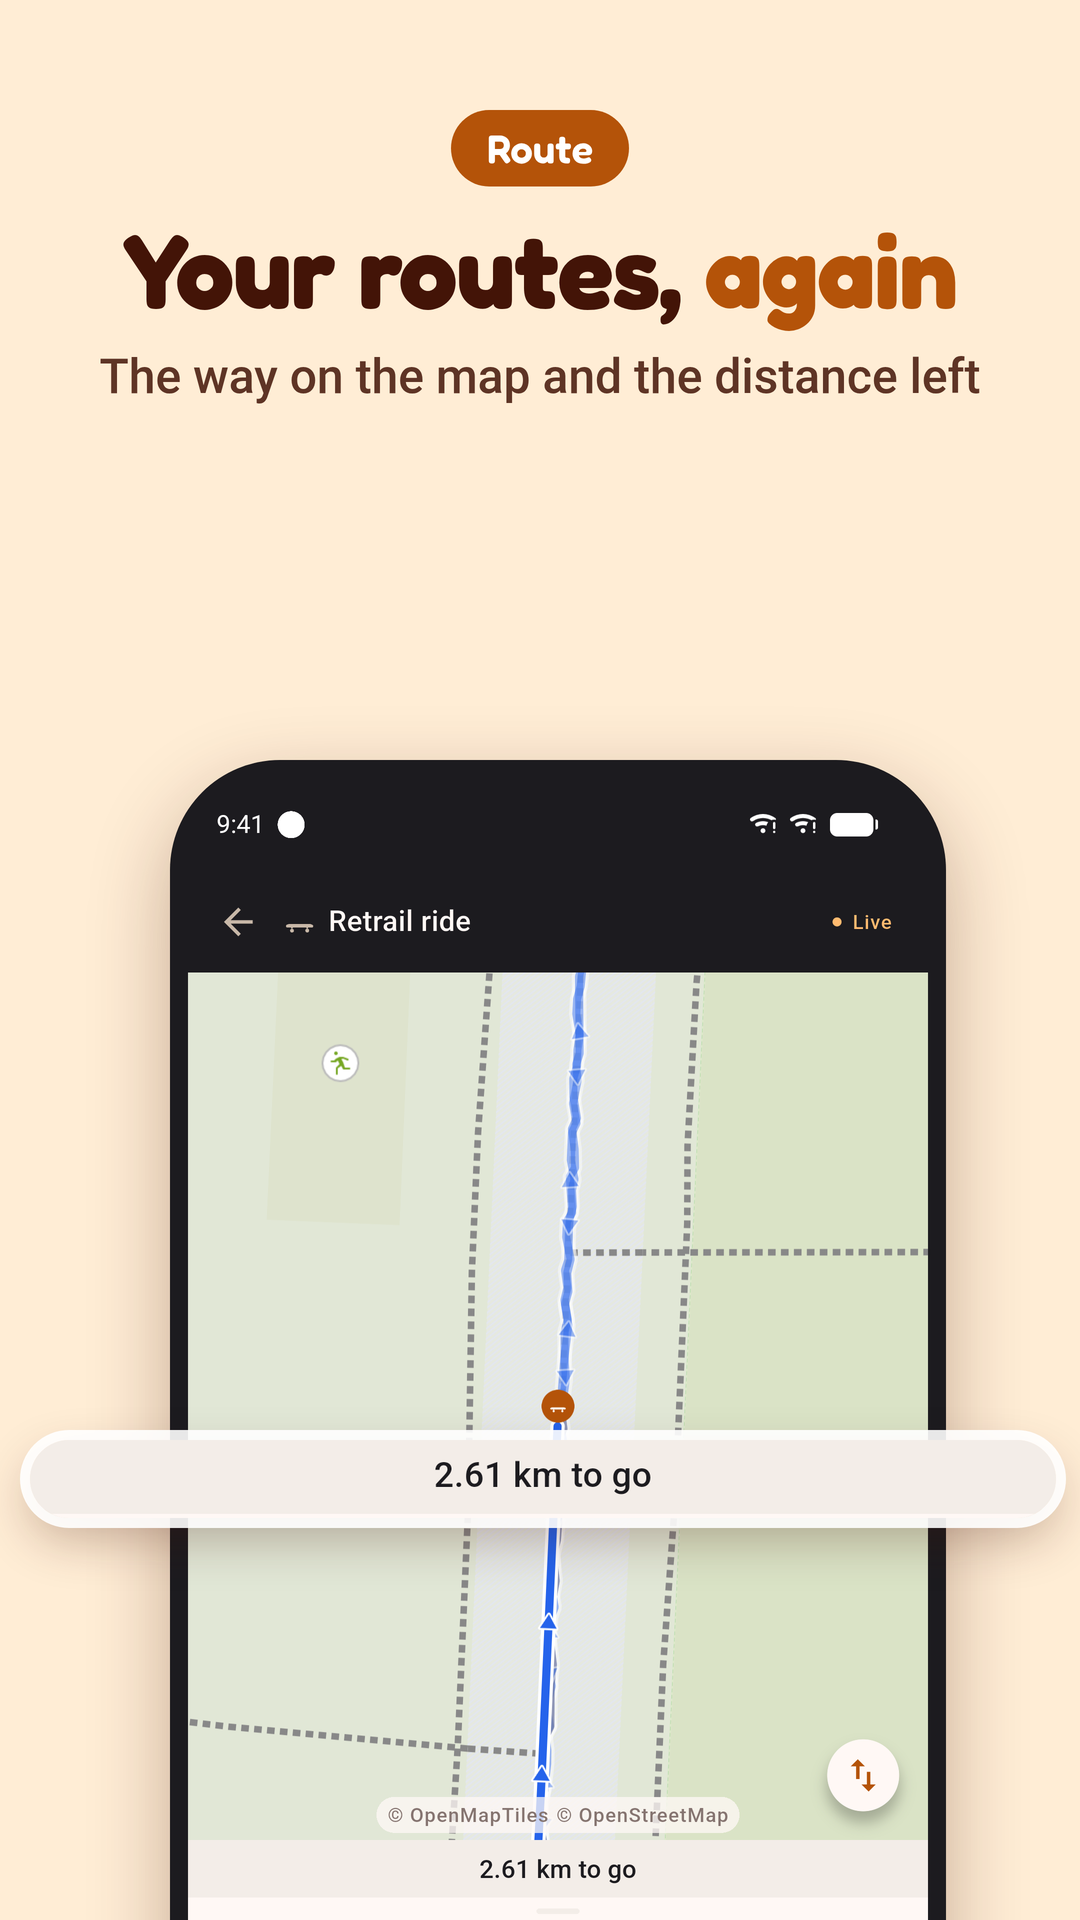
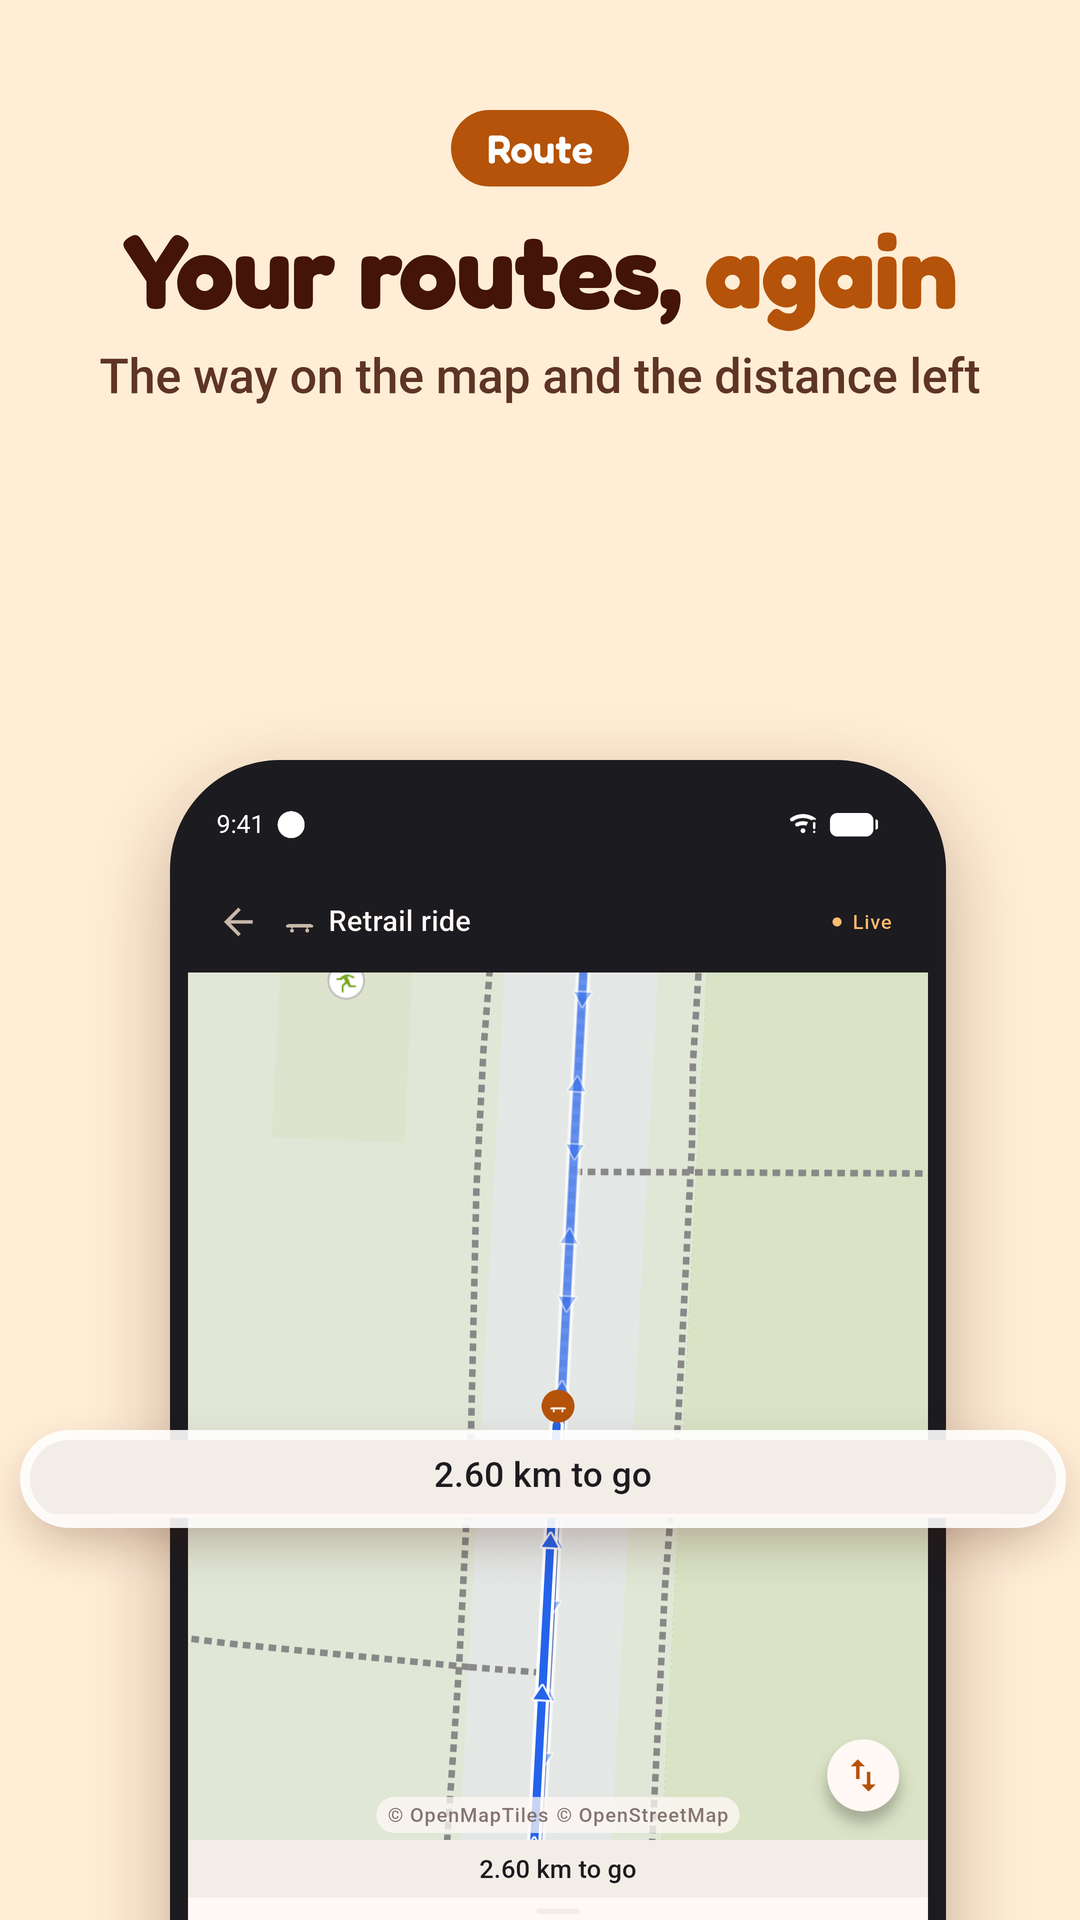
fix(store): retake the follow screenshot without the wobbly route line
The reference line came from the old demo database with 1 m GPS scatter.
Rebuilt with 0.15 m scatter and retaken in German and English; the other
Play screenshots are unchanged.

diff --git a/.trail/learnings/2026-11-06-auf-den-play-bildern-zittert-nur-valiju.md b/.trail/learnings/2026-11-06-auf-den-play-bildern-zittert-nur-valiju.md
@@ -1,0 +1,38 @@
+---
+title: "Auf den Play-Bildern zittert nur das Nachfahren-Motiv, weil die Referenzlinie aus der Demo-Datenbank stammt"
+author: Valiju
+date: 2026-11-06
+branch: main
+cost: { minutes: 19, tokens: 90954 }
+id: l-bbfe3544
+scope: repo
+status: active
+src: agent
+touches:
+  - store/ios/text/de_name.txt
+  - store/ios/text/en_name.txt
+  - docs/app-store.md
+  - ios/Runner/Info.plist
+  - store/ios/text/de_description.txt
+  - store/ios/text/en_description.txt
+  - CHANGELOG.md
+  - ".github/workflows/ios-screenshots.yml"
+  - store/ios/screenshots/de/01_track.png
+  - store/ios/screenshots/de/02_best_time.png
+---
+
+## Decided
+- Bei den Android-Store-Bildern zeigt nur 03_follow (Rohbild light_06_ride) die zittrige Linie: Es ist die hellblaue Referenzfahrt aus der Demo-Datenbank, die mit der alten Streuung von 1 m gebaut war. Die Live-Linie (selbst eingespeist) und die Detailkarte sind glatt.
+- Neu aufgenommen wurde nur dieses Motiv, auf Deutsch und Englisch, mit der Datenbank mit 0,15 m Streuung. Alle anderen Bilder blieben unverändert.
+
+## Tried and ruled out
+- Alle Android-Motive neu aufnehmen: unnötig, nur das Nachfahren-Motiv zeigt die Referenzlinie bei so hoher Vergrößerung.
+
+## Watch out
+- Das Motiv ist die Fahrt "Evening skate"/"Feierabendrunde" (Nordbahn): Position an den Start setzen, Strecke nachfahren, Aufzeichnen, dann 11 s stehen und danach etwa 5,4 m/s entlang der Route einspeisen (adb emu geo fix mit Geschwindigkeit in Knoten). Bei Dauer 03:00 bis 03:05 aufnehmen.
+- Der Emulator zeigt Benachrichtigungen (Zahnrad, Schild) in der Status-Leiste, die der Demo-Modus nicht ausblendet. Vor der Aufnahme "Alle löschen" in der Benachrichtigungsleiste.
+- Der Demo-Modus der Status-Leiste zeigt mit "mobile show" ein "3G"-Symbol. Mobilfunk ausblenden, nur WLAN zeigen.
+
+In the code:
+- tool/demo_rides/build_demo_db_test.dart (Streuung 0,15 m)
+- store/play/screens/raw/{de,en}_light_06_ride.png, tool/render_store_graphics.sh
